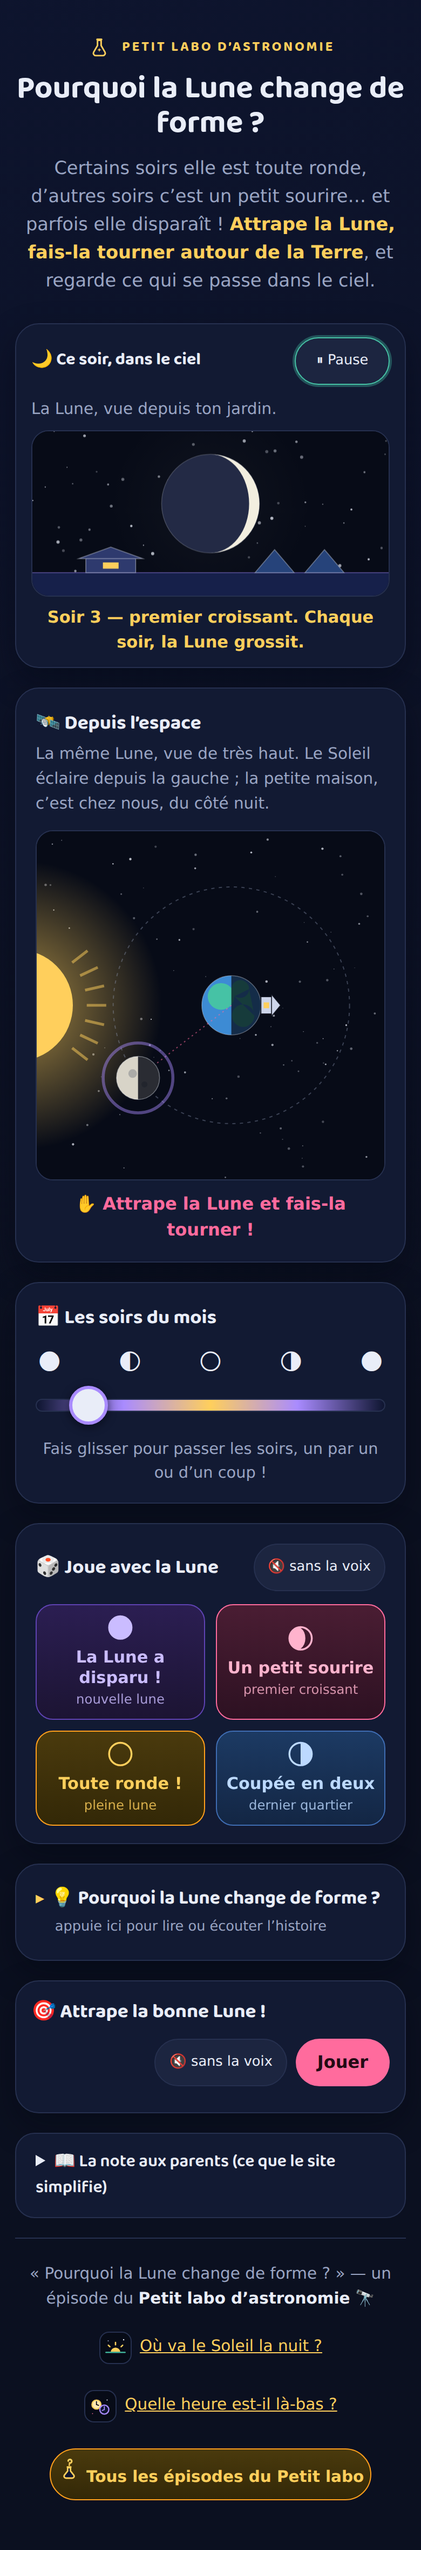
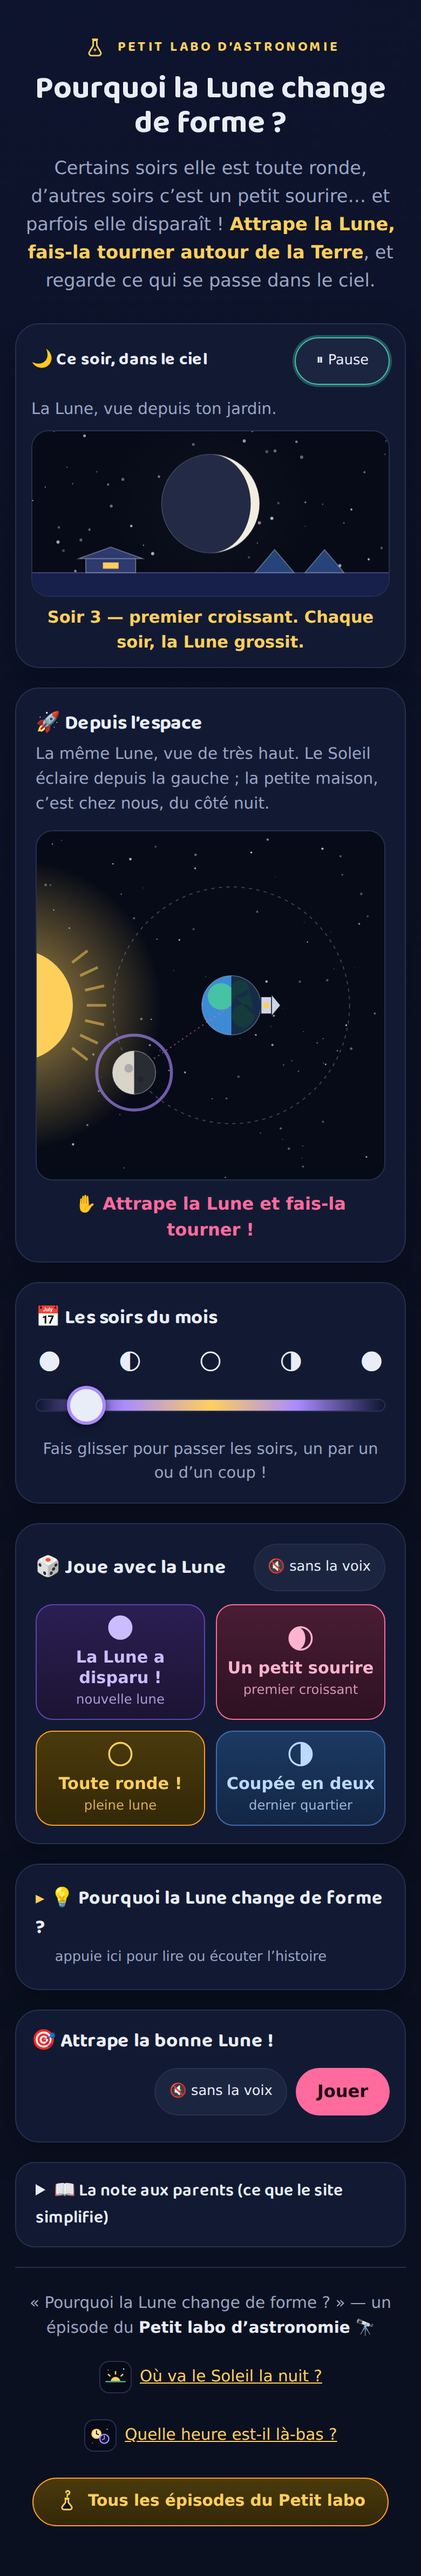
Harmonise avec la famille : fusée 🚀, bouton « Écouter » doré, pied de page réparé
Trois retouches d'harmonisation sur le patron d'ou-va-le-soleil :

- la vue depuis l'espace porte la fusée 🚀 de la famille (carte « Depuis
  l'espace » et puce des micro-histoires) à la place du satellite 🛰 ;
- le bouton « 🔊 Écouter l'histoire » reprend la pilule dorée de la
  famille (dégradé or, texte or, gras 700) qui vire au bleu nuit pendant
  la lecture, avec l'état aria-pressed câblé comme dans la référence ;
- le bouton « Tous les épisodes du Petit labo » retrouve son patron : la
  règle mobile `.pied-serie a` (zone de tap des liens d'épisodes)
  l'attrapait aussi et écrasait son inline-flex et son padding — elle ne
  vise plus que `.footer-episodes a`.

Captures docs/*.png régénérées (mêmes compositions, nouveaux visuels —
celle en mouvement réduit montrait encore les anciens textes de
scénarios). Vérifié : tests du modèle verts, passe Playwright desktop +
mobile (styles calculés, rien ne déborde, zéro erreur console).

Claude-Session: https://claude.ai/code/session_01QmaUDxVJKu8XohLoGoVbYB

diff --git a/css/style.css b/css/style.css
@@ -282,7 +282,21 @@ input[type="range"]:focus-visible { outline-offset: 4px; border-radius: 999px; }
 
 .bouton-son[aria-pressed="true"] { border-color: var(--teal); box-shadow: 0 0 0 2px rgba(70, 194, 165, 0.35); }
 
-.bouton-ecouter { font-weight: 600; }
+/* « 🔊 Écouter l'histoire » : la pilule dorée de la famille (ou-va-le-soleil),
+   qui vire au bleu nuit pendant la lecture */
+.bouton-ecouter {
+  font-weight: 700;
+  padding: 8px 16px;
+  background: linear-gradient(180deg, #4a3a0d, #332807);
+  border-color: var(--sun-deep);
+  color: var(--sun);
+}
+.bouton-ecouter[aria-pressed="true"] {
+  background: #243158;
+  border-color: #3b4c86;
+  color: var(--text);
+  box-shadow: none;
+}
 
 /* libellés empilés (grille 1×1) : le bouton garde la largeur du plus long des
    deux états — basculer pause/lecture ou la voix ne décale jamais la page */
@@ -522,7 +536,10 @@ input[type="range"]:focus-visible { outline-offset: 4px; border-radius: 999px; }
   }
 
   .pied-serie ul { gap: 2px 12px; }
-  .pied-serie a { display: inline-block; padding: 8px 6px; }
+  /* zone de tap généreuse pour les liens d'épisodes SEULEMENT : le bouton
+     « Tous les épisodes » garde son patron inline-flex de la famille
+     (l'ancien `.pied-serie a` l'attrapait aussi et l'écrasait) */
+  .footer-episodes a { padding: 8px 6px; }
 
   /* l'histoire : la puce au-dessus de son texte, comme les autres épisodes */
   .ligne-histoire { display: block; }

diff --git a/js/main.js b/js/main.js
@@ -339,7 +339,7 @@ function montrerHistoire(s) {
   histoireScenario.hidden = false;
   while (histoireScenario.firstChild) histoireScenario.removeChild(histoireScenario.firstChild);
   [{ classe: 'puce-ciel', puce: '🌙 dans le ciel', texte: s.ciel },
-   { classe: 'puce-espace', puce: '🛰 depuis l’espace', texte: s.espace }].forEach(function (l) {
+   { classe: 'puce-espace', puce: '🚀 depuis l’espace', texte: s.espace }].forEach(function (l) {
     var ligne = document.createElement('div');
     ligne.className = 'ligne-histoire';
     var puce = document.createElement('span');
@@ -523,9 +523,11 @@ function lireExplication() {
   }
   lectureExplication = true;
   boutonEcouter.textContent = '⏹ Arrêter';
+  boutonEcouter.setAttribute('aria-pressed', 'true');
   narrateur.parler(morceaux, function () {
     lectureExplication = false;
     boutonEcouter.textContent = '🔊 Écouter l’histoire';
+    boutonEcouter.setAttribute('aria-pressed', 'false');
   });
 }
 

diff --git a/index.html b/index.html
@@ -66,7 +66,7 @@
       </div>
 
       <div class="carte carte-orbite">
-        <h2>🛰 Depuis l’espace</h2>
+        <h2>🚀 Depuis l’espace</h2>
         <p class="sous-titre">La même Lune, vue de très haut. Le Soleil éclaire depuis la gauche ; la petite maison, c’est chez nous, du côté nuit.</p>
         <div class="cadre-canvas">
           <canvas id="canvas-orbite"
@@ -113,7 +113,7 @@
       <div class="titre-avec-bouton">
         <h2>💡 Pourquoi la Lune change de forme ?</h2>
         <div class="boutons-voix">
-          <button id="bouton-ecouter" class="bouton-son bouton-ecouter" type="button" hidden>🔊 Écouter l’histoire</button>
+          <button id="bouton-ecouter" class="bouton-son bouton-ecouter" type="button" aria-pressed="false" hidden>🔊 Écouter l’histoire</button>
         </div>
       </div>
       <div id="texte-explication">

diff --git a/CLAUDE.md b/CLAUDE.md
@@ -104,7 +104,7 @@ Vérités verrouillées par `test/model.test.mjs` (à compléter, jamais supprim
   en dégradés colorés (croissant rose, quartier bleu, pleine lune dorée,
   nouvelle lune violette — classes `scn-<id>`), et l'histoire écrite en
   **deux lignes à puces** — « 🌙 dans le ciel » (champs `ciel` du modèle) puis
-  « 🛰 depuis l'espace » (`espace`) : le même instant, deux regards
+  « 🚀 depuis l'espace » (`espace`, fusée de la famille) : le même instant, deux regards
   (`montrerHistoire` dans main.js). Le bouton 🔇/🔊 a un **jumeau posé sur le
   jeu** (`bouton-son-jeu`, même état, même clé ; l'activer depuis le jeu relit
   la consigne du défi en cours).
